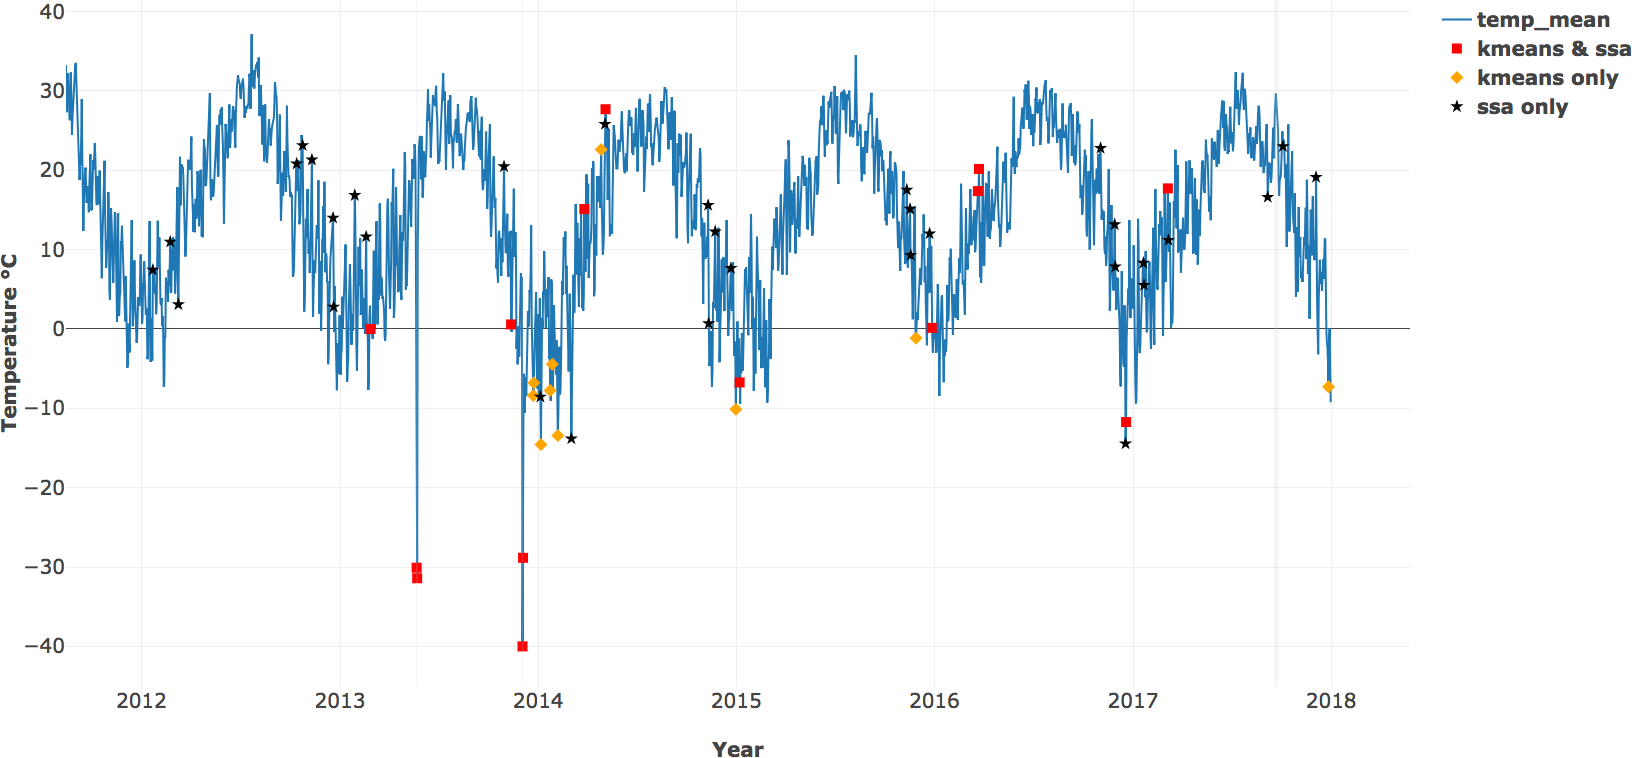
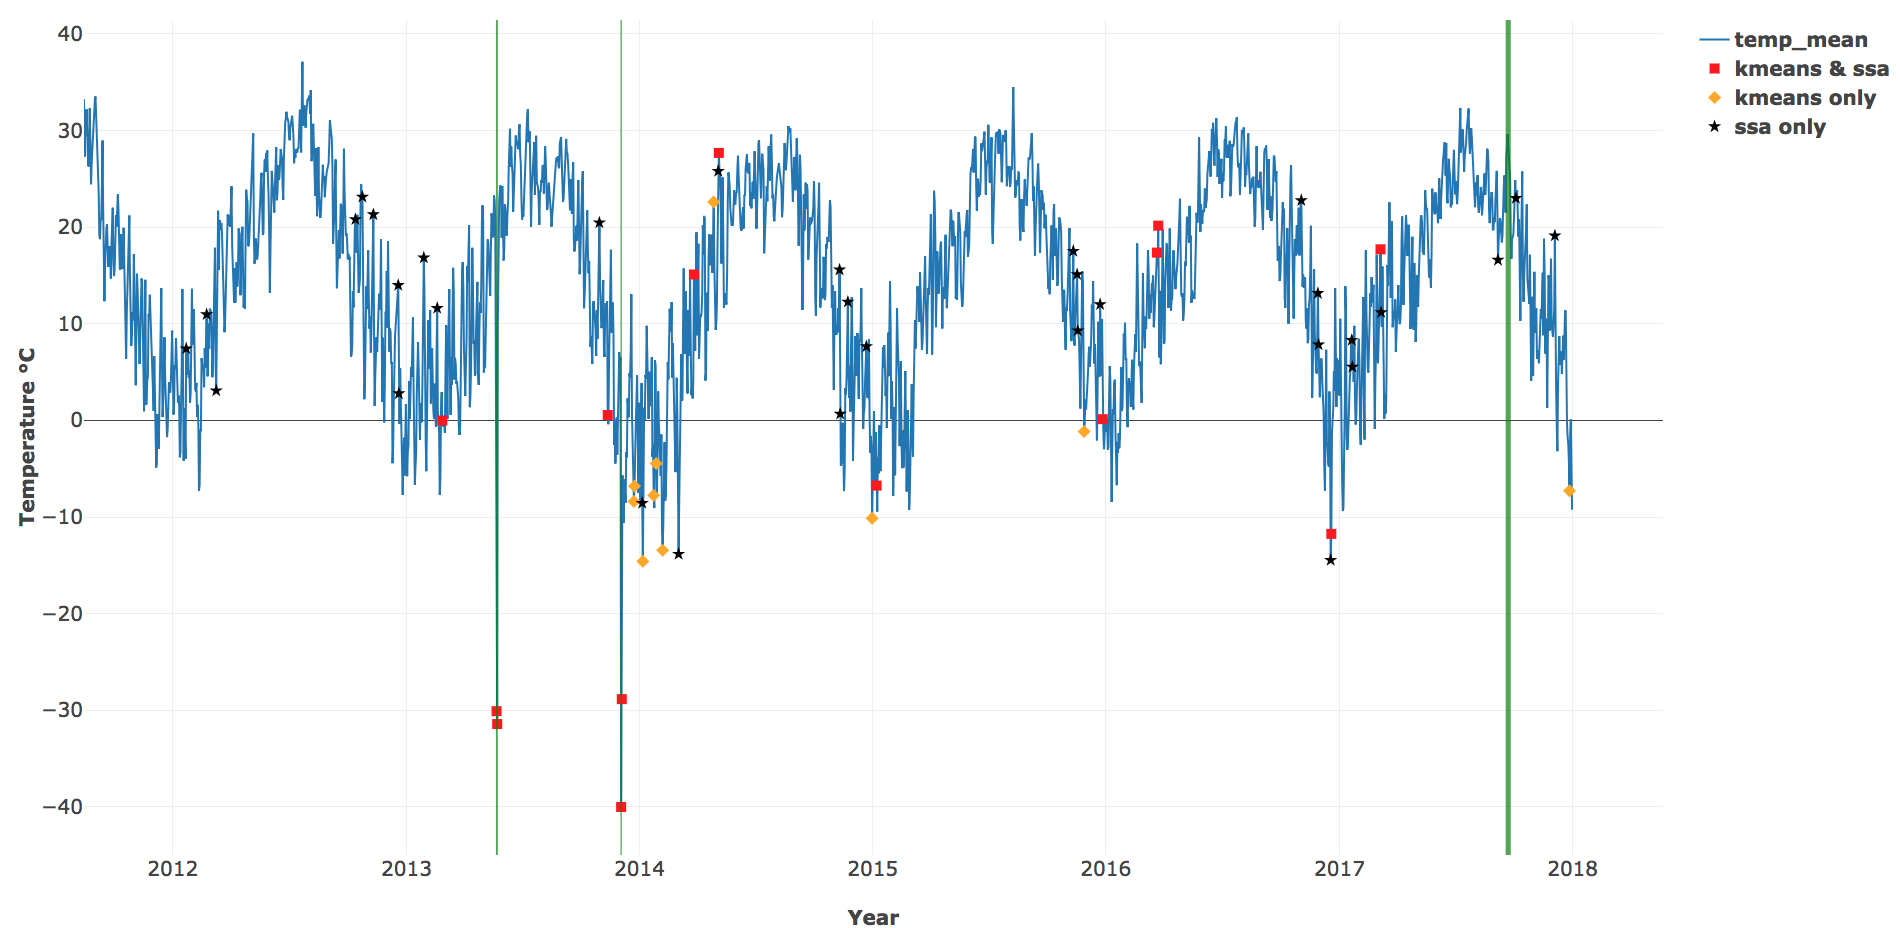
Add new combined figure

diff --git a/results.tex b/results.tex
@@ -110,7 +110,7 @@ to capture outlier events caused by a wide range of conditions.
 		by SSA and $k$-means algorithms. Outliers detected by both
 		algorithms are shown by red squares, while those identifed by
 		SSA and $k$-means only are indicated by black stars and orange
-		diamonds respectively.}
+		diamonds respectively. DQR records are denoted by the green shaded areas.}
     \label{fig:combined}
 \end{figure*}
 
